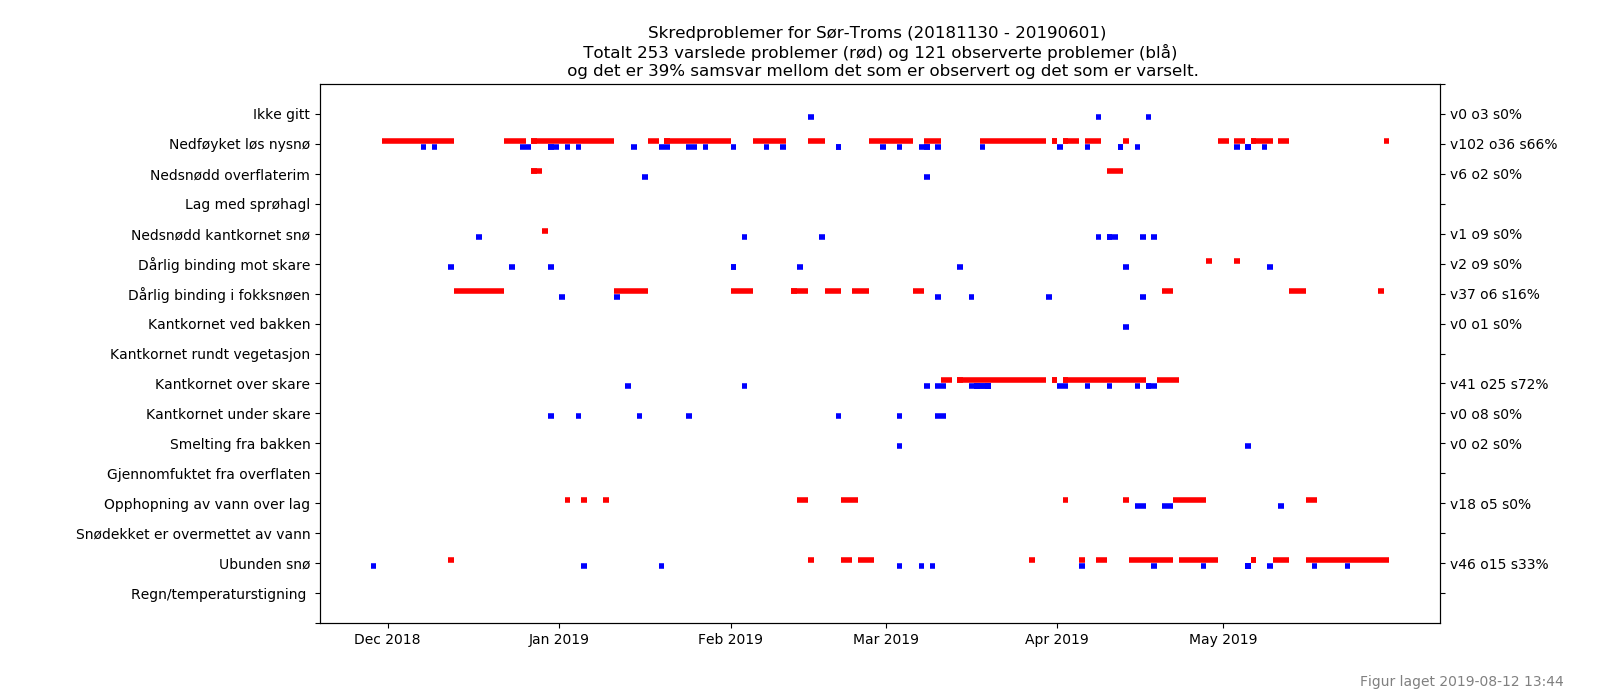
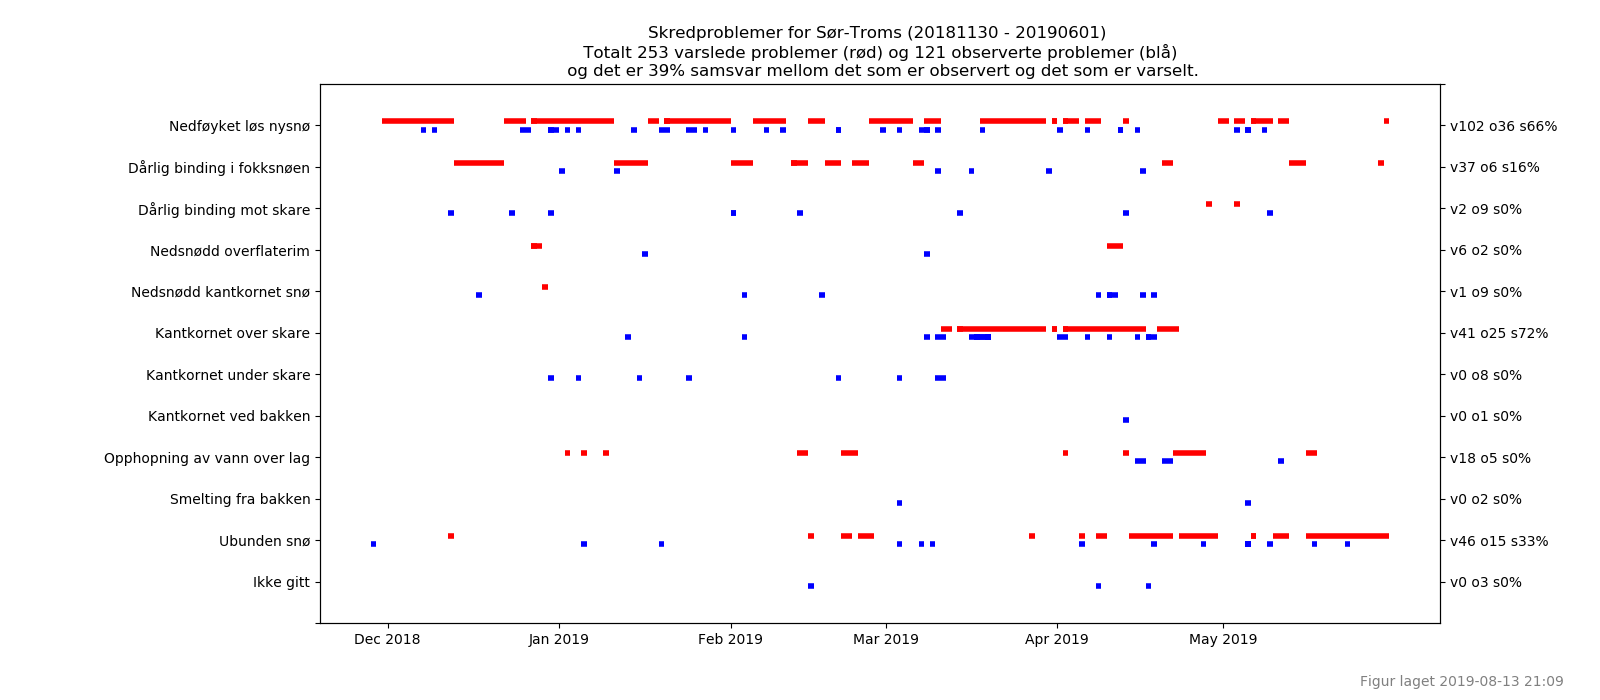
Uppdate on active weak layers

diff --git a/varsomscripts/plotdangerandproblem.py b/varsomscripts/plotdangerandproblem.py
@@ -93,6 +93,7 @@ def _plot_causes(region_name, causes, year='2018-19', plot_folder=env.plot_folde
 
     aval_cause_kdv = gkdv.get_kdv('AvalCauseKDV')
     list_of_causes = [0, 10, 11, 12, 13, 14, 15, 16, 17, 18, 19, 20, 21, 22, 23, 24, 25]
+    list_of_causes = [10, 15, 14, 11, 13, 18, 19, 16, 22, 20, 24, 0]
     # list_of_causes = set([c.cause_tid for c in causes])
     list_of_cause_names = [aval_cause_kdv[tid].Name for tid in list_of_causes]
 
@@ -119,7 +120,7 @@ def _plot_causes(region_name, causes, year='2018-19', plot_folder=env.plot_folde
         y += 1
 
     # Left y-axis labels
-    plt.ylim(len(list_of_causes)-1, -1)                # 16 skredproblemer
+    plt.ylim(len(list_of_causes)-1, -1)                # 12 skredproblemer
     plt.yticks(range(len(list_of_causes)+1), list_of_cause_names)
 
     # x-axis labels
